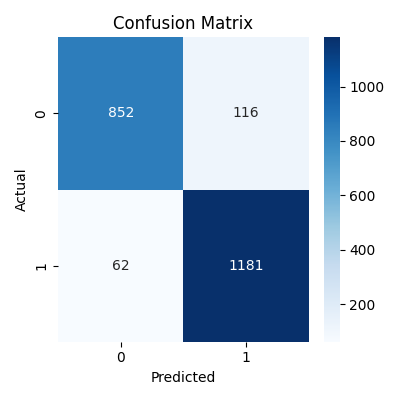
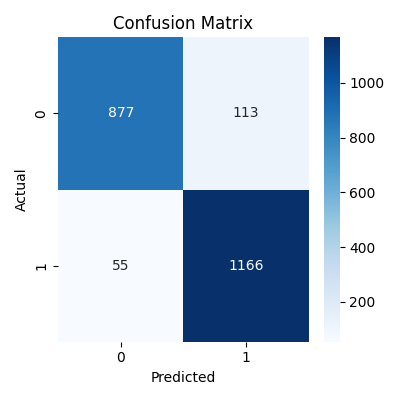
Pipeline completed and fastapi created

diff --git a/templates/predict.html b/templates/predict.html
@@ -1,0 +1,21 @@
+<!DOCTYPE html>
+<html>
+<head>
+    <title>Data Table</title>
+    <style>
+        table {
+            border-collapse: collapse;
+            width: 100%;
+        }
+        th, td {
+            border: 1px solid black;
+            padding: 8px;
+            text-align: left;
+        }
+    </style>
+</head>
+<body>
+    <h2>Predicted Data</h2>
+    {{ table | safe }}
+</body>
+</html>

diff --git a/networksecurity/pipeline/training_pipeline.py b/networksecurity/pipeline/training_pipeline.py
@@ -1,0 +1,104 @@
+import os, sys
+from networksecurity.exception.exception import NetworkSecurityException
+from networksecurity.logging.logger import logging
+
+from networksecurity.components.data_ingestion import DataIngestion
+from networksecurity.components.data_validation import DataValidation
+from networksecurity.components.data_transformation import DataTransformation
+from networksecurity.components.model_trainer import ModelTrainer
+
+from networksecurity.entity.config_entity import (
+    TrainingPipelineConfig,
+    DataIngestionConfig,
+    DataValidationConfig,
+    DataTransformationConfig,
+    ModelTrainerConfig,
+)
+
+from networksecurity.entity.artifact_entity import (
+    DataIngestionArtifact,
+    DataValidationArtifact,
+    DataTransformationArtifact,
+    ModelTrainerArtifact,
+)
+
+class TraningPipeline:
+    def __init__(self):
+        try:
+            self.training_pipeline_config = TrainingPipelineConfig()
+        except Exception as e:
+            raise NetworkSecurityException(e, sys)
+        
+    def start_data_ingestion(self):
+        try:
+            logging.info("Starting data ingestion")
+            self.data_ingestion_config = DataIngestionConfig(
+                training_pipeline_config=self.training_pipeline_config
+            )
+            data_ingestion = DataIngestion(
+                data_ingestion_config=self.data_ingestion_config
+            )
+            data_ingestion_artifact = data_ingestion.initiate_data_ingestion()
+            logging.info(f"Data ingestion completed and artifact {data_ingestion_artifact}")
+            return data_ingestion_artifact
+        except Exception as e:
+            raise NetworkSecurityException(e, sys)
+
+    def start_data_validation(self, data_ingestion_artifact: DataIngestionArtifact):
+        try:
+            logging.info("Starting data validation")
+            self.data_validation_config = DataValidationConfig(
+                training_pipeline_config=self.training_pipeline_config
+            )
+            data_validation = DataValidation(
+                data_validation_config=self.data_validation_config,
+                data_ingestion_artifact=data_ingestion_artifact
+            )
+            data_validation_artifact = data_validation.initiate_data_validation()
+            logging.info(f"Data validation completed and artifact {data_validation_artifact}")
+            return data_validation_artifact
+        except Exception as e:
+            raise NetworkSecurityException(e, sys)
+        
+    def start_data_transformation(self, data_validation_artifact: DataValidationArtifact):
+        try:
+            logging.info("Starting data transformation")
+            self.data_transformation_config = DataTransformationConfig(
+                training_pipeline_config=self.training_pipeline_config
+            )
+            data_transformation = DataTransformation(
+                data_transformation_config=self.data_transformation_config,
+                data_validation_artifact=data_validation_artifact
+            )
+            data_transformation_artifact = data_transformation.initiate_data_transformation()
+            logging.info(f"Data transformation completed and artifact {data_transformation_artifact}")
+            return data_transformation_artifact
+        except Exception as e:
+            raise NetworkSecurityException(e, sys)
+        
+    def start_model_trainer(self, data_transformation_artifact: DataTransformationArtifact) -> ModelTrainerArtifact:
+        try:
+            logging.info("Starting model trainer")
+            self.model_trainer_config = ModelTrainerConfig(
+                training_pipeline_config=self.training_pipeline_config
+            )
+            model_trainer = ModelTrainer(
+                model_trainer_config=self.model_trainer_config,
+                data_transformation_artifact=data_transformation_artifact
+            )
+            model_trainer_artifact = model_trainer.initiate_model_trainer()
+            logging.info(f"Model trainer completed and artifact {model_trainer_artifact}")
+            return model_trainer_artifact
+        except Exception as e:
+            raise NetworkSecurityException(e, sys)
+        
+    def run_pipeline(self):
+        try:
+            data_ingestion_artifact = self.start_data_ingestion()
+            data_validation_artifact = self.start_data_validation(data_ingestion_artifact=data_ingestion_artifact)
+            data_transformation_artifact = self.start_data_transformation(data_validation_artifact=data_validation_artifact)
+            model_trainer_artifact = self.start_model_trainer(data_transformation_artifact=data_transformation_artifact)
+            logging.info("Training pipeline completed successfully")
+            return model_trainer_artifact
+        except Exception as e:
+            raise NetworkSecurityException(e, sys)

diff --git a/app.py b/app.py
@@ -1,0 +1,98 @@
+import os, certifi, sys
+
+from networksecurity.utils.ml_utils.model.estimator import NetworkModel
+
+ca = certifi.where()
+
+from dotenv import load_dotenv
+load_dotenv()
+mong_db_url = os.getenv("MONGODB_URL_KEY")
+print(mong_db_url)
+
+import pymongo
+from networksecurity.exception.exception import NetworkSecurityException
+from networksecurity.logging.logger import logging
+from networksecurity.pipeline.training_pipeline import TraningPipeline
+
+from fastapi.middleware.cors import CORSMiddleware
+from fastapi import FastAPI, File, UploadFile, Request
+from uvicorn import run as app_run
+from fastapi.responses import Response
+from starlette.responses import RedirectResponse
+import pandas as pd
+
+from networksecurity.utils.main_utils.utils import load_object
+
+client = pymongo.MongoClient(mong_db_url, tlsCAFile=ca)
+
+from networksecurity.constant.training_pipeline import DATA_INGESTION_COLLECTION_NAME
+from networksecurity.constant.training_pipeline import DATA_INGESTION_DATABASE_NAME
+
+database = client[DATA_INGESTION_DATABASE_NAME]
+collection = database[DATA_INGESTION_COLLECTION_NAME]
+
+app = FastAPI(title="Network Security Prediction API")
+origins = ["*"]
+
+app.add_middleware(
+    CORSMiddleware,
+    allow_origins=origins,
+    allow_credentials=True,
+    allow_methods=["*"],
+    allow_headers=["*"],
+)
+
+from fastapi.templating import Jinja2Templates
+templates = Jinja2Templates(directory="templates")
+
+@app.get("/")
+async def index():
+    return RedirectResponse(url="/docs")
+
+
+@app.get("/train", tags=["train"])
+async def train_route():
+    try:
+        training_pipeline = TraningPipeline()
+        training_pipeline.run_pipeline()
+        return Response(content="Training successful !!")
+
+    except Exception as e:
+        logging.error(f"Training failed: {e}")
+        raise NetworkSecurityException(e, sys)
+
+
+
+@app.post("/predict")
+async def predict_route(request: Request, file: UploadFile = File(...)):
+    try:
+        df = pd.read_csv(file.file)
+        logging.info(f"Uploaded file shape: {df.shape}")
+        logging.info(f"Uploaded columns: {df.columns.tolist()}")
+
+        preprocessor = load_object("final_model/preprocessor.pkl")
+        final_model = load_object("final_model/model.pkl")
+
+        network_model = NetworkModel(
+            preprocessor=preprocessor,
+            model=final_model
+        )
+        print(df.iloc[0])
+        y_pred = network_model.predict(df)
+        print(y_pred)
+        df["prediction_column"] = y_pred
+        print(df["prediction_column"])
+
+        os.makedirs("prediction_output", exist_ok=True)
+        df.to_csv("prediction_output/output.csv", index=False)
+        table_html = df.to_html(classes='table table-striped')
+
+        return templates.TemplateResponse("table.html", {"request": request, "table": table_html})
+
+
+    except Exception as e:
+        logging.error(f"Prediction failed: {e}")
+        raise NetworkSecurityException(e, sys)
+
+if __name__ == "__main__":
+    app_run(app, host="localhost", port=8000)

diff --git a/networksecurity/entity/config_entity.py b/networksecurity/entity/config_entity.py
@@ -6,7 +6,7 @@ print(training_pipeline.PIPELINE_NAME)
 print(training_pipeline.ARTIFACT_DIR)
 
 
-class TraningPipelineConfig:
+class TrainingPipelineConfig:
     def __init__(self,timestamp=datetime.now()):
         timestamp=timestamp.strftime("%m_%d_%Y_%H_M_%S")
         self.pipeline_name = training_pipeline.PIPELINE_NAME
@@ -15,7 +15,7 @@ class TraningPipelineConfig:
         self.timestamp: str = timestamp
 
 class DataIngestionConfig:
-    def __init__(self,training_pipeline_config: TraningPipelineConfig):
+    def __init__(self,training_pipeline_config: TrainingPipelineConfig):
         self.data_ingestion_dir:str = os.path.join(
             training_pipeline_config.artifact_dir,training_pipeline.DATA_INGESTION_DIR_NAME
         )
@@ -34,7 +34,7 @@ class DataIngestionConfig:
 
 
 class DataValidationConfig:
-    def __init__(self, training_pipeline_config: TraningPipelineConfig):
+    def __init__(self, training_pipeline_config: TrainingPipelineConfig):
         # Main data validation directory
         self.data_validation_dir: str = os.path.join(
             training_pipeline_config.artifact_dir,
@@ -85,7 +85,7 @@ class DataValidationConfig:
         )
 
 class DataTransformationConfig:
-    def __init__(self, training_pipeline_config: TraningPipelineConfig):
+    def __init__(self, training_pipeline_config: TrainingPipelineConfig):
         self.data_transformation_dir: str = os.path.join(
             training_pipeline_config.artifact_dir,
             training_pipeline.DATA_TRANSFORMATION_DIR_NAME
@@ -110,7 +110,7 @@ class DataTransformationConfig:
         )
 
 class ModelTrainerConfig:
-    def __init__(self, training_pipeline_config: TraningPipelineConfig):
+    def __init__(self, training_pipeline_config: TrainingPipelineConfig):
         self.model_trainer_dir: str = os.path.join(
             training_pipeline_config.artifact_dir, training_pipeline.MODEL_TRAINER_DIR_NAME
         )

diff --git a/main.py b/main.py
@@ -6,12 +6,12 @@ from networksecurity.components.model_trainer import ModelTrainer,ModelTrainerCo
 from networksecurity.exception.exception import NetworkSecurityException
 from networksecurity.logging.logger import logging
 from networksecurity.entity.config_entity import DataIngestionConfig,DataValidationConfig,DataTransformationConfig
-from networksecurity.entity.config_entity import TraningPipelineConfig
+from networksecurity.entity.config_entity import TrainingPipelineConfig
 import sys
 
 if __name__ == "__main__":
     try:
-        traningpipelineconfig=TraningPipelineConfig()
+        traningpipelineconfig=TrainingPipelineConfig()
         dataingestionconfig=DataIngestionConfig(traningpipelineconfig)
         data_ingestion=DataIngestion(dataingestionconfig)
         logging.info("Initiate the data ingestion")

diff --git a/networksecurity/components/model_trainer.py b/networksecurity/components/model_trainer.py
@@ -181,7 +181,7 @@ class ModelTrainer:
 
         # ---------- Best model selection ----------
         best_model_name = max(model_scores, key=model_scores.get)
-        best_model = models[best_model_name]
+        best_model = model_report[best_model_name]["model"]
 
         logging.info(
             f"Best Model: {best_model_name} | "
